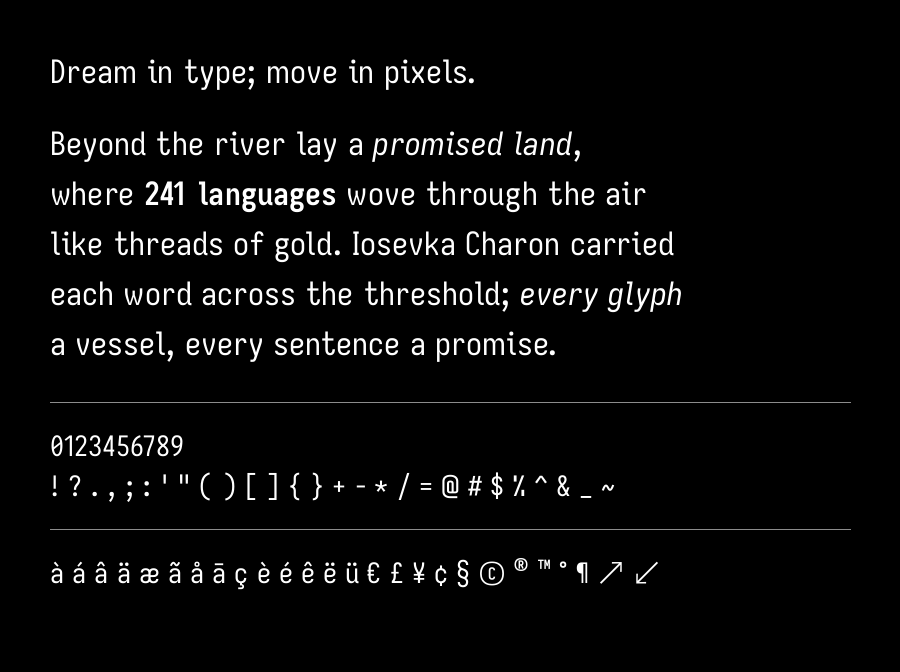
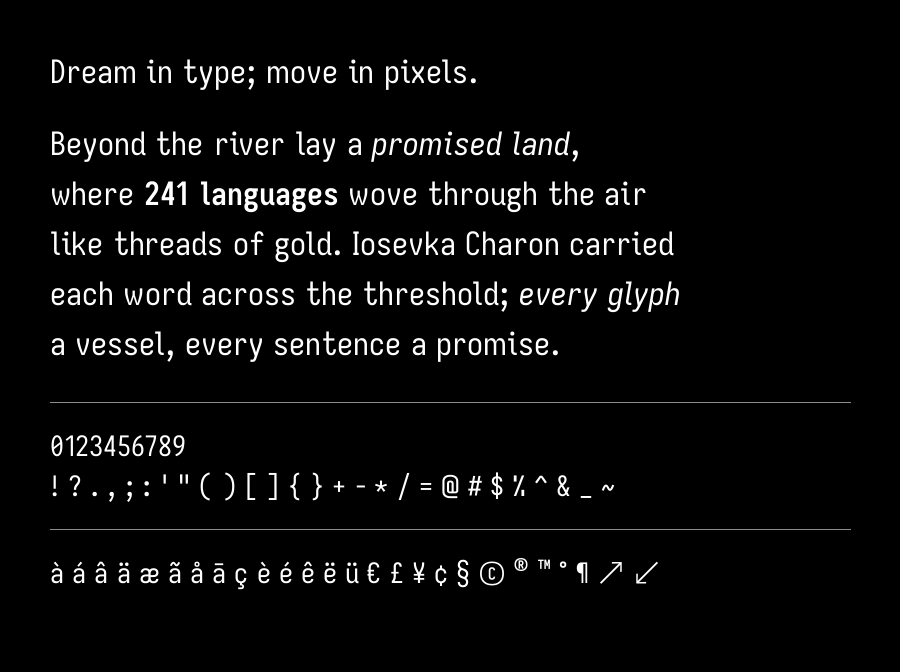
Use reduce=max and negative-only kerns for tighter, optical kerning
Switch HalfKern reduce mode from "sum" (averaged overlap) to "max"
(worst-case closest approach) for more optically even kerning. Also
restrict to negative-only kerns — only tightening, no widening.

diff --git a/scripts/autokern.py b/scripts/autokern.py
@@ -104,14 +104,14 @@ class AutoKernConfig:
     """Tunables for the auto-kerning algorithm."""
 
     envelope: str = "sdf"  # "sdf" (default, best) or "gaussian"
-    reduce: str = "sum"  # "sum" (default) or "max"
+    reduce: str = "max"  # "max" (tighter, optically even) or "sum" (averaged)
     half_negative: bool = False  # use full computed kerns (not halved)
     min_kern_units: int = -250  # clamp: most negative kern allowed (font units)
     max_kern_units: int = 100  # clamp: most positive kern allowed (font units)
     threshold_units: int = 5  # drop kerns smaller than this (font units)
     quantize_step: int = 2  # round kerns to multiples of this (font units)
     class_tolerance: int = 10  # max deviation for class merging (font units)
-    negative_only: bool = False  # emit both tightening and loosening kerns
+    negative_only: bool = True  # only emit tightening (negative) kerns
 
 
 # ---------------------------------------------------------------------------
